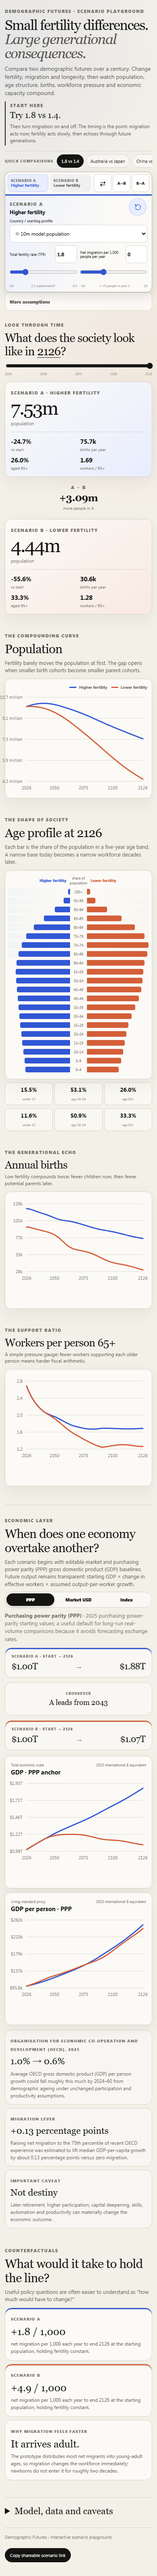
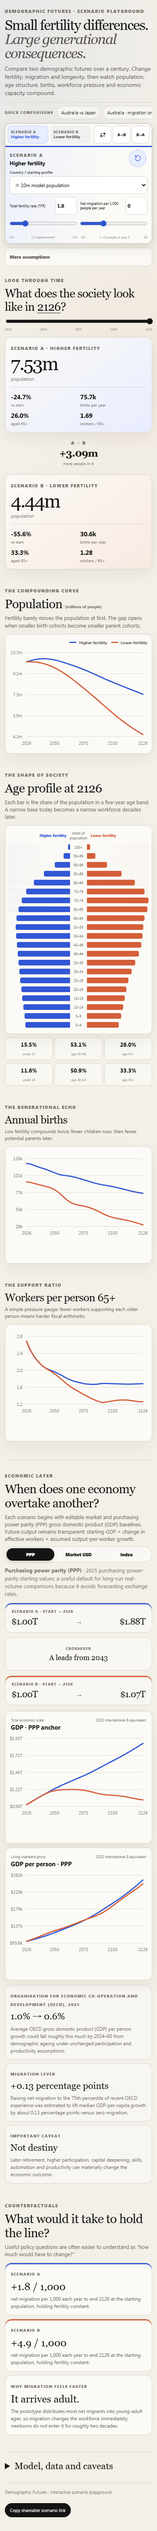
Fix sticky controls and refine comparisons

Changed region(s): [[0.0308, 0.0, 0.9846, 0.9963], [0.9538, 0.6538, 0.9846, 0.685], [0.8923, 0.467, 0.9231, 0.4982]]

diff --git a/src/App.tsx b/src/App.tsx
@@ -473,70 +473,64 @@ export function App() {
     <main className="shell">
       <header className="hero">
         <div className="eyebrow">DEMOGRAPHIC FUTURES · SCENARIO PLAYGROUND</div>
-        <div className="hero-grid">
-          <div>
-            <h1>Small fertility differences.<br /><em>Large generational consequences.</em></h1>
-            <p className="lede">Compare two demographic futures over a century. Change fertility, migration and longevity, then watch population, age structure, births, workforce pressure and economic capacity compound.</p>
-          </div>
-          <aside className="hero-note">
-            <span className="note-kicker">Start here</span>
-            <strong>Try 1.8 vs 1.4.</strong>
-            <span>Then turn migration on and off. The timing is the point: migration acts now; fertility acts slowly, then echoes through future generations.</span>
-          </aside>
+        <div className="hero-copy">
+          <h1>Small fertility differences.<br /><em>Large generational consequences.</em></h1>
+          <p className="lede">Compare two demographic futures over a century. Change fertility, migration and longevity, then watch population, age structure, births, workforce pressure and economic capacity compound.</p>
         </div>
       </header>
 
       <section className="preset-strip" aria-label="Quick comparisons">
         <span className="preset-label">Quick comparisons</span>
-        {Object.entries(presets).slice(0, 6).map(([id, preset]) => (
-          <button key={id} type="button" className={`preset ${state.activePreset === id ? 'active' : ''}`} aria-pressed={state.activePreset === id} onClick={() => setState((previous) => applyPreset(previous, id))}>{preset.label}</button>
-        ))}
+        {(['ausJapan', 'ausMigration', 'unitedStatesChina', 'chinaIndia', 'fourTenths', 'japanReplacement'] as const).map((id) => {
+          const preset = presets[id];
+          return (
+            <button key={id} type="button" className={`preset ${state.activePreset === id ? 'active' : ''}`} aria-pressed={state.activePreset === id} onClick={() => setState((previous) => applyPreset(previous, id))}>{preset.label}</button>
+          );
+        })}
       </section>
 
-      <section className="sticky-lab" aria-label="Scenario controls">
-        <div className="sticky-scenarios">
-          <div className="mobile-control-tools">
-            <div className="mobile-scenario-tabs" role="tablist" aria-label="Choose scenario controls">
-              {(['a', 'b'] as const).map((side) => (
-                <button
-                  key={side}
-                  id={`mobile-tab-${side}`}
-                  type="button"
-                  role="tab"
-                  aria-controls={`mobile-panel-${side}`}
-                  aria-selected={mobileSide === side}
-                  tabIndex={mobileSide === side ? 0 : -1}
-                  className={`mobile-scenario-tab mobile-tab-${side} ${mobileSide === side ? 'active' : ''}`}
-                  onClick={() => setMobileSide(side)}
-                  onKeyDown={(event) => {
-                    if (!['ArrowLeft', 'ArrowRight', 'Home', 'End'].includes(event.key)) return;
-                    event.preventDefault();
-                    const nextSide: Side = event.key === 'Home' ? 'a' : event.key === 'End' ? 'b' : side === 'a' ? 'b' : 'a';
-                    setMobileSide(nextSide);
-                    document.getElementById(`mobile-tab-${nextSide}`)?.focus();
-                  }}
-                >
-                  <span>Scenario {side.toUpperCase()}</span><strong>{state[side].title}</strong>
-                </button>
-              ))}
-            </div>
-            <div className="scenario-actions" aria-label="Scenario actions">
+      <section className="sticky-scenarios" aria-label="Scenario controls">
+        <div className="mobile-control-tools">
+          <div className="mobile-scenario-tabs" role="tablist" aria-label="Choose scenario controls">
+            {(['a', 'b'] as const).map((side) => (
+              <button
+                key={side}
+                id={`mobile-tab-${side}`}
+                type="button"
+                role="tab"
+                aria-controls={`mobile-panel-${side}`}
+                aria-selected={mobileSide === side}
+                tabIndex={mobileSide === side ? 0 : -1}
+                className={`mobile-scenario-tab mobile-tab-${side} ${mobileSide === side ? 'active' : ''}`}
+                onClick={() => setMobileSide(side)}
+                onKeyDown={(event) => {
+                  if (!['ArrowLeft', 'ArrowRight', 'Home', 'End'].includes(event.key)) return;
+                  event.preventDefault();
+                  const nextSide: Side = event.key === 'Home' ? 'a' : event.key === 'End' ? 'b' : side === 'a' ? 'b' : 'a';
+                  setMobileSide(nextSide);
+                  document.getElementById(`mobile-tab-${nextSide}`)?.focus();
+                }}
+              >
+                <span>Scenario {side.toUpperCase()}</span><strong>{state[side].title}</strong>
+              </button>
+            ))}
+          </div>
+          <div className="scenario-actions" aria-label="Scenario actions">
             <button type="button" title="Swap scenarios" aria-label="Swap scenarios" onClick={() => setState((previous) => ({ ...previous, a: previous.b, b: previous.a, activePreset: null }))}>⇄</button>
             <button type="button" title="Copy A to B" aria-label="Copy Scenario A to B" onClick={() => copyScenario('a', 'b')}>A→B</button>
             <button type="button" title="Copy B to A" aria-label="Copy Scenario B to A" onClick={() => copyScenario('b', 'a')}>B→A</button>
-            </div>
           </div>
-          <ScenarioControls side="a" scenario={state.a} mobileActive={mobileSide === 'a'} onChange={(patch) => updateScenario('a', patch)} onCountryChange={(id) => changeCountry('a', id)} onResetScenario={() => resetScenario('a')} />
-          <ScenarioControls side="b" scenario={state.b} mobileActive={mobileSide === 'b'} onChange={(patch) => updateScenario('b', patch)} onCountryChange={(id) => changeCountry('b', id)} onResetScenario={() => resetScenario('b')} />
         </div>
-        <details className="sticky-advanced">
-          <summary><span>More assumptions</span><small>gross domestic product · population · fertility · longevity · retirement · output per worker</small></summary>
-          <div className="sticky-advanced-grid">
-            <ScenarioAssumptions side="a" scenario={state.a} mobileActive={mobileSide === 'a'} onChange={(patch) => updateScenario('a', patch)} />
-            <ScenarioAssumptions side="b" scenario={state.b} mobileActive={mobileSide === 'b'} onChange={(patch) => updateScenario('b', patch)} />
-          </div>
-        </details>
+        <ScenarioControls side="a" scenario={state.a} mobileActive={mobileSide === 'a'} onChange={(patch) => updateScenario('a', patch)} onCountryChange={(id) => changeCountry('a', id)} onResetScenario={() => resetScenario('a')} />
+        <ScenarioControls side="b" scenario={state.b} mobileActive={mobileSide === 'b'} onChange={(patch) => updateScenario('b', patch)} onCountryChange={(id) => changeCountry('b', id)} onResetScenario={() => resetScenario('b')} />
       </section>
+      <details className="sticky-advanced">
+        <summary><span>More assumptions</span><small>gross domestic product · population · fertility · longevity · retirement · output per worker</small></summary>
+        <div className="sticky-advanced-grid">
+          <ScenarioAssumptions side="a" scenario={state.a} mobileActive={mobileSide === 'a'} onChange={(patch) => updateScenario('a', patch)} />
+          <ScenarioAssumptions side="b" scenario={state.b} mobileActive={mobileSide === 'b'} onChange={(patch) => updateScenario('b', patch)} />
+        </div>
+      </details>
 
       <section className="time-deck">
         <div><span className="section-kicker">LOOK THROUGH TIME</span><h2>What does the society look like in <strong>{state.year}</strong>?</h2></div>
@@ -554,10 +548,10 @@ export function App() {
       </section>
 
       <section className="viz-section">
-        <div className="section-heading"><div><span className="section-kicker">THE COMPOUNDING CURVE</span><h2>Population</h2></div><p>Fertility barely moves the population at first. The gap opens when smaller birth cohorts become smaller parent cohorts.</p></div>
+        <div className="section-heading"><div><span className="section-kicker">THE COMPOUNDING CURVE</span><h2>Population <span className="unit-note">(millions of people)</span></h2></div><p>Fertility barely moves the population at first. The gap opens when smaller birth cohorts become smaller parent cohorts.</p></div>
         <div className="chart-card">
           <div className="legend"><span className="legend-a"><i /> <b>{state.a.title}</b></span><span className="legend-b"><i /> <b>{state.b.title}</b></span></div>
-          <LineChart label="Population projection line chart, in millions of people" series={scenarioChartSeries(a, b, (point) => point.pop / 1e6, state)} formatY={(value) => `${value.toFixed(value >= 100 ? 0 : 1)} million`} tooltipY={(value) => `${value.toFixed(2)} million people`} />
+          <LineChart label="Population projection line chart, in millions of people" series={scenarioChartSeries(a, b, (point) => point.pop / 1e6, state)} formatY={(value) => `${value.toFixed(value >= 100 ? 0 : 1)}m`} tooltipY={(value) => `${value.toFixed(2)}m people`} />
         </div>
       </section>
 

diff --git a/styles.css b/styles.css
@@ -29,26 +29,24 @@ button { color: inherit; }
 button:focus-visible, input:focus-visible, select:focus-visible, summary:focus-visible, a:focus-visible { outline:3px solid rgba(49,87,213,.45); outline-offset:2px; }
 .shell { width: min(1240px, calc(100% - 36px)); margin: 0 auto; padding: 20px 0 56px; }
 .hero { padding: 22px 0 18px; border-bottom: 1px solid var(--line); }
-.eyebrow, .section-kicker, .scenario-tag, .note-kicker, .delta-kicker, .preset-label {
+.eyebrow, .section-kicker, .scenario-tag, .delta-kicker, .preset-label {
   font-size: 11px; line-height: 1; font-weight: 800; letter-spacing: .14em; text-transform: uppercase; color: var(--muted);
 }
-.hero-grid { display: grid; grid-template-columns: minmax(0, 1fr) 300px; gap: 48px; align-items: end; margin-top: 18px; }
+.hero-copy { max-width: 1000px; margin-top: 18px; }
 h1 { margin: 0; max-width: 890px; font-family: Georgia, "Times New Roman", serif; font-size: clamp(42px, 5vw, 68px); line-height: .98; letter-spacing: -.045em; font-weight: 500; }
 h1 em { font-weight: 400; color: #555149; }
 .lede { max-width: 820px; margin: 16px 0 0; font-size: 16px; line-height: 1.5; color: #56524b; }
-.hero-note { border-left: 2px solid var(--ink); padding: 8px 0 8px 18px; display: grid; gap: 8px; color: #59554e; line-height: 1.45; }
-.hero-note strong { font-family: Georgia, serif; font-size: 27px; color: var(--ink); font-weight: 500; }
 .preset-strip { display: flex; align-items: center; gap: 8px; padding: 12px 0; overflow-x: auto; scrollbar-width: thin; }
 .preset-label { margin-right: 8px; white-space: nowrap; }
 .preset { white-space: nowrap; border: 1px solid var(--line); border-radius: 999px; background: rgba(255,255,255,.45); padding: 9px 13px; font-size: 13px; cursor: pointer; transition: .18s ease; }
 .preset:hover { background: var(--paper); transform: translateY(-1px); }
 .preset.active { background: var(--ink); color: white; border-color: var(--ink); }
 
-.sticky-lab {
+.sticky-scenarios {
   position: sticky;
   top: 10px;
   z-index: 30;
-  margin: 0 0 24px;
+  margin: 0 0 12px;
   border: 1px solid rgba(184,178,167,.92);
   border-radius: 18px;
   background: rgba(251,250,246,.94);
@@ -56,8 +54,10 @@ h1 em { font-weight: 400; color: #555149; }
   backdrop-filter: blur(16px) saturate(1.15);
   -webkit-backdrop-filter: blur(16px) saturate(1.15);
   overflow: hidden;
+  display:grid;
+  grid-template-columns:minmax(0,1fr) 58px minmax(0,1fr);
+  align-items:stretch;
 }
-.sticky-scenarios { display:grid; grid-template-columns:minmax(0,1fr) 58px minmax(0,1fr); align-items:stretch; }
 .mobile-control-tools { display:contents; }
 .mobile-scenario-tabs { display:none; }
 .scenario-compact { position:relative; min-width:0; padding:14px 16px 13px; }
@@ -101,7 +101,7 @@ select:focus, .mini-field input:focus { border-color:#aaa49a; box-shadow:0 0 0 3
 .scenario-actions button { width:38px; min-height:28px; border:1px solid var(--line); border-radius:9px; background:rgba(255,255,255,.85); cursor:pointer; font-size:10px; font-weight:800; }
 .scenario-actions button:first-child { font-size:17px; }
 .scenario-actions button:hover { background:#fff; }
-.sticky-advanced { border-top:1px solid var(--line); background:rgba(255,255,255,.55); }
+.sticky-advanced { margin:0 0 24px; border:1px solid var(--line); border-radius:12px; background:rgba(255,255,255,.55); overflow:hidden; }
 .sticky-advanced summary { display:flex; align-items:center; gap:9px; padding:8px 14px; cursor:pointer; font-size:11px; font-weight:800; color:#5f5b54; list-style-position:inside; }
 .sticky-advanced summary small { font-weight:500; color:#8b877e; }
 .sticky-advanced-grid { display:grid; grid-template-columns:1fr 1fr; border-top:1px solid var(--line); }
@@ -132,6 +132,7 @@ select:focus, .mini-field input:focus { border-color:#aaa49a; box-shadow:0 0 0 3
 .viz-section { margin-top:72px; }
 .section-heading { display:grid; grid-template-columns:minmax(0,1fr) minmax(300px,470px); gap:36px; align-items:end; margin-bottom:18px; }
 .section-heading h2 { font-size:clamp(30px,4vw,48px); }
+.unit-note { color:var(--muted); font-family:Inter,ui-sans-serif,-apple-system,BlinkMacSystemFont,"Segoe UI",sans-serif; font-size:.32em; font-weight:650; letter-spacing:0; white-space:nowrap; }
 .section-heading p { margin:0; color:#666159; line-height:1.55; }
 .chart-card { position:relative; background:var(--paper); border:1px solid var(--line); border-radius:var(--radius); box-shadow:var(--shadow); padding:18px 18px 8px; min-width:0; }
 .chart, .line-chart-wrap { width:100%; }
@@ -201,9 +202,7 @@ footer button { border:1px solid var(--ink); background:var(--ink); color:white;
 .toast.show { opacity:1; transform:translate(-50%,0); }
 
 @media (max-width: 900px) {
-  .hero-grid, .section-heading, .time-deck { grid-template-columns:1fr; }
-  .hero-note { max-width:560px; }
-  .sticky-lab { position:static; top:auto; }
+.section-heading, .time-deck { grid-template-columns:1fr; }
   .sticky-scenarios { grid-template-columns:1fr; }
   .scenario-a { grid-column:1; grid-row:1; }
   .scenario-b { grid-column:1; grid-row:3; }
@@ -239,17 +238,14 @@ footer button { border:1px solid var(--ink); background:var(--ink); color:white;
 @media (max-width: 900px) {
   .shell { width:calc(100% - 24px); padding:10px 0 34px; }
   .hero { padding:12px 0 13px; }
-  .hero-grid { gap:11px; margin-top:12px; }
+  .hero-copy { margin-top:12px; }
   h1 { font-size:clamp(33px,9vw,39px); line-height:1; }
   .lede { margin-top:10px; font-size:14px; line-height:1.42; }
-  .hero-note { max-width:none; padding:4px 0 4px 11px; gap:4px; font-size:12px; }
-  .hero-note strong { font-size:21px; }
   .preset-strip { gap:6px; padding:8px 0 10px; }
   .preset-label { font-size:9px; margin-right:3px; }
   .preset { padding:8px 10px; font-size:11px; }
 
-  .sticky-lab { position:static; overflow:visible; margin:0 0 14px; border:0; border-radius:0; background:transparent; box-shadow:none; backdrop-filter:none; -webkit-backdrop-filter:none; }
-  .sticky-scenarios { position:sticky; top:0; z-index:30; display:flex; flex-direction:column; border:1px solid rgba(184,178,167,.92); border-radius:14px; background:rgba(251,250,246,.97); box-shadow:0 8px 24px rgba(25,24,20,.12); backdrop-filter:blur(14px) saturate(1.1); -webkit-backdrop-filter:blur(14px) saturate(1.1); overflow:hidden; }
+  .sticky-scenarios { position:sticky; top:0; z-index:30; display:flex; flex-direction:column; margin:0 0 10px; border:1px solid rgba(184,178,167,.92); border-radius:14px; background:rgba(251,250,246,.97); box-shadow:0 8px 24px rgba(25,24,20,.12); backdrop-filter:blur(14px) saturate(1.1); -webkit-backdrop-filter:blur(14px) saturate(1.1); overflow:hidden; }
   .mobile-control-tools { display:flex; align-items:stretch; gap:7px; padding:5px 6px; border-bottom:1px solid var(--line); }
   .mobile-scenario-tabs { display:flex; flex:1; min-width:0; gap:5px; }
   .mobile-scenario-tab { display:grid; align-content:center; min-width:0; min-height:44px; flex:1; gap:2px; border:1px solid transparent; border-radius:9px; padding:4px 7px; text-align:left; cursor:pointer; }
@@ -278,7 +274,7 @@ footer button { border:1px solid var(--ink); background:var(--ink); color:white;
   .range { min-height:44px; margin:0; }
   .scale-labels { gap:3px; font-size:8px; }
 
-  .sticky-advanced { margin:0 0 14px; border:1px solid var(--line); border-radius:12px; background:rgba(255,255,255,.62); }
+  .sticky-advanced { margin:0 0 14px; background:rgba(255,255,255,.62); }
   .sticky-advanced summary { min-height:44px; padding:8px 11px; font-size:11px; }
   .sticky-advanced-grid { grid-template-columns:1fr; }
   .advanced-side { display:none; }

diff --git a/e2e/screenshot.spec.ts b/e2e/screenshot.spec.ts
@@ -5,10 +5,17 @@ test('captures the full dashboard for the README', async ({ page }) => {
   page.on('pageerror', (error) => pageErrors.push(error.message));
   await page.setViewportSize({ width: 1440, height: 1000 });
   await page.goto('/');
+  for (const label of ['Australia vs Japan', 'Australia · migration on/off', 'United States vs China', 'China vs India']) {
+    await expect(page.getByRole('button', { name: label })).toBeVisible();
+  }
+  await page.getByRole('button', { name: 'United States vs China' }).click();
+  await expect(page.getByRole('button', { name: 'United States vs China' })).toHaveAttribute('aria-pressed', 'true');
+  await page.getByRole('button', { name: '1.8 vs 1.4' }).click();
   await page.getByText('More assumptions').click();
   await expect(page.getByRole('spinbutton', { name: 'Market GDP · United States dollars (USD), trillions' }).first()).toBeVisible();
   await expect(page.getByRole('img', { name: 'Population projection line chart' })).toBeVisible();
   expect(pageErrors).toEqual([]);
+  await page.addStyleTag({ content: '.sticky-scenarios { position:relative !important; top:auto !important; }' });
   await page.screenshot({ path: 'docs/dashboard-full.png', fullPage: true, animations: 'disabled' });
 });
 
@@ -17,6 +24,8 @@ test('keeps the key controls usable at a mobile viewport', async ({ page }) => {
   page.on('pageerror', (error) => pageErrors.push(error.message));
   await page.setViewportSize({ width: 390, height: 844 });
   await page.goto('/');
+  await expect(page.getByRole('button', { name: 'Australia vs Japan' })).toBeVisible();
+  await expect(page.getByRole('button', { name: 'Australia · migration on/off' })).toBeVisible();
   await expect(page.getByRole('slider', { name: 'Selected year' })).toBeVisible();
   const tabA = page.getByRole('tab', { name: /Scenario A/ });
   const tabB = page.getByRole('tab', { name: /Scenario B/ });
@@ -47,14 +56,22 @@ test('keeps the key controls usable at a mobile viewport', async ({ page }) => {
   await tabA.click();
   const widths = await page.evaluate(() => ({ document: document.documentElement.scrollWidth, viewport: window.innerWidth }));
   expect(widths.document).toBeLessThanOrEqual(widths.viewport);
-  await page.evaluate(() => window.scrollTo(0, 900));
-  await expect.poll(() => page.locator('.sticky-scenarios').boundingBox().then((box) => box?.y ?? 1000)).toBeLessThan(1);
+  for (const scrollY of [900, 2200]) {
+    await page.evaluate((y) => window.scrollTo(0, y), scrollY);
+    await expect.poll(() => page.locator('.sticky-scenarios').boundingBox().then((box) => box?.y ?? 1000)).toBeLessThan(1);
+  }
   const populationChart = page.getByRole('img', { name: 'Population projection line chart' });
   const chartBox = await populationChart.boundingBox();
   const chartViewBoxWidth = Number((await populationChart.getAttribute('viewBox'))?.split(' ')[2]);
   expect(Math.abs((chartBox?.width ?? 0) - chartViewBoxWidth)).toBeLessThanOrEqual(1);
-  await page.evaluate(() => window.scrollTo(0, 0));
+  await page.evaluate(() => {
+    document.documentElement.style.scrollBehavior = 'auto';
+    window.scrollTo(0, 0);
+  });
+  await expect.poll(() => page.evaluate(() => window.scrollY)).toBe(0);
+  const screenshotStyle = await page.addStyleTag({ content: '.sticky-scenarios { position:relative !important; top:auto !important; }' });
   await page.screenshot({ path: 'docs/dashboard-mobile.png', fullPage: true, animations: 'disabled' });
+  await screenshotStyle.evaluate((style) => style.remove());
   for (const width of [320, 768]) {
     await page.setViewportSize({ width, height: 844 });
     await expect(page.getByRole('tablist', { name: 'Choose scenario controls' })).toBeVisible();

diff --git a/src/model.ts b/src/model.ts
@@ -312,6 +312,11 @@ export const presets: Record<string, Preset> = {
     a: createScenarioFromCountry('australia', 'Australia today'),
     b: createScenarioFromCountry('japan', 'Japan today'),
   },
+  unitedStatesChina: {
+    label: 'United States vs China',
+    a: createScenarioFromCountry('unitedStates', 'United States today'),
+    b: createScenarioFromCountry('china', 'China today'),
+  },
   chinaIndia: {
     label: 'China vs India',
     a: createScenarioFromCountry('china', 'China today'),

diff --git a/README.md b/README.md
@@ -38,6 +38,7 @@ The included `vercel.json` sets these values for the project. The app has no ser
 ## Use the playground
 
 - Choose a starting country or synthetic profile for Scenario A and B, or start from a quick comparison.
+- Quick comparisons include Australia and Japan, Australia with migration on or off, the United States and China, China and India, a fertility-only comparison, and Japan at current or replacement fertility.
 - Adjust the total fertility rate and annual net migration with each scenario’s controls. Open **More assumptions** to edit starting population, the total fertility rate in 2100, life expectancy, retirement age, output-per-worker growth, and gross domestic product (GDP) baselines.
 - GDP inputs are totals in trillions: market values use United States dollars (USD), while purchasing power parity (PPP) values use international dollars. They stay independent when population changes. Selecting a country loads all of its starting assumptions. The round reset button at the upper-right of a scenario restores that entire scenario to the selected country’s defaults.
 - Numeric controls accept values beyond the usual slider ranges, including retirement ages such as 50 or 100. GDP and population must be positive, fertility and life expectancy must be above zero, and annual productivity growth cannot be below -100% because it compounds year over year.
